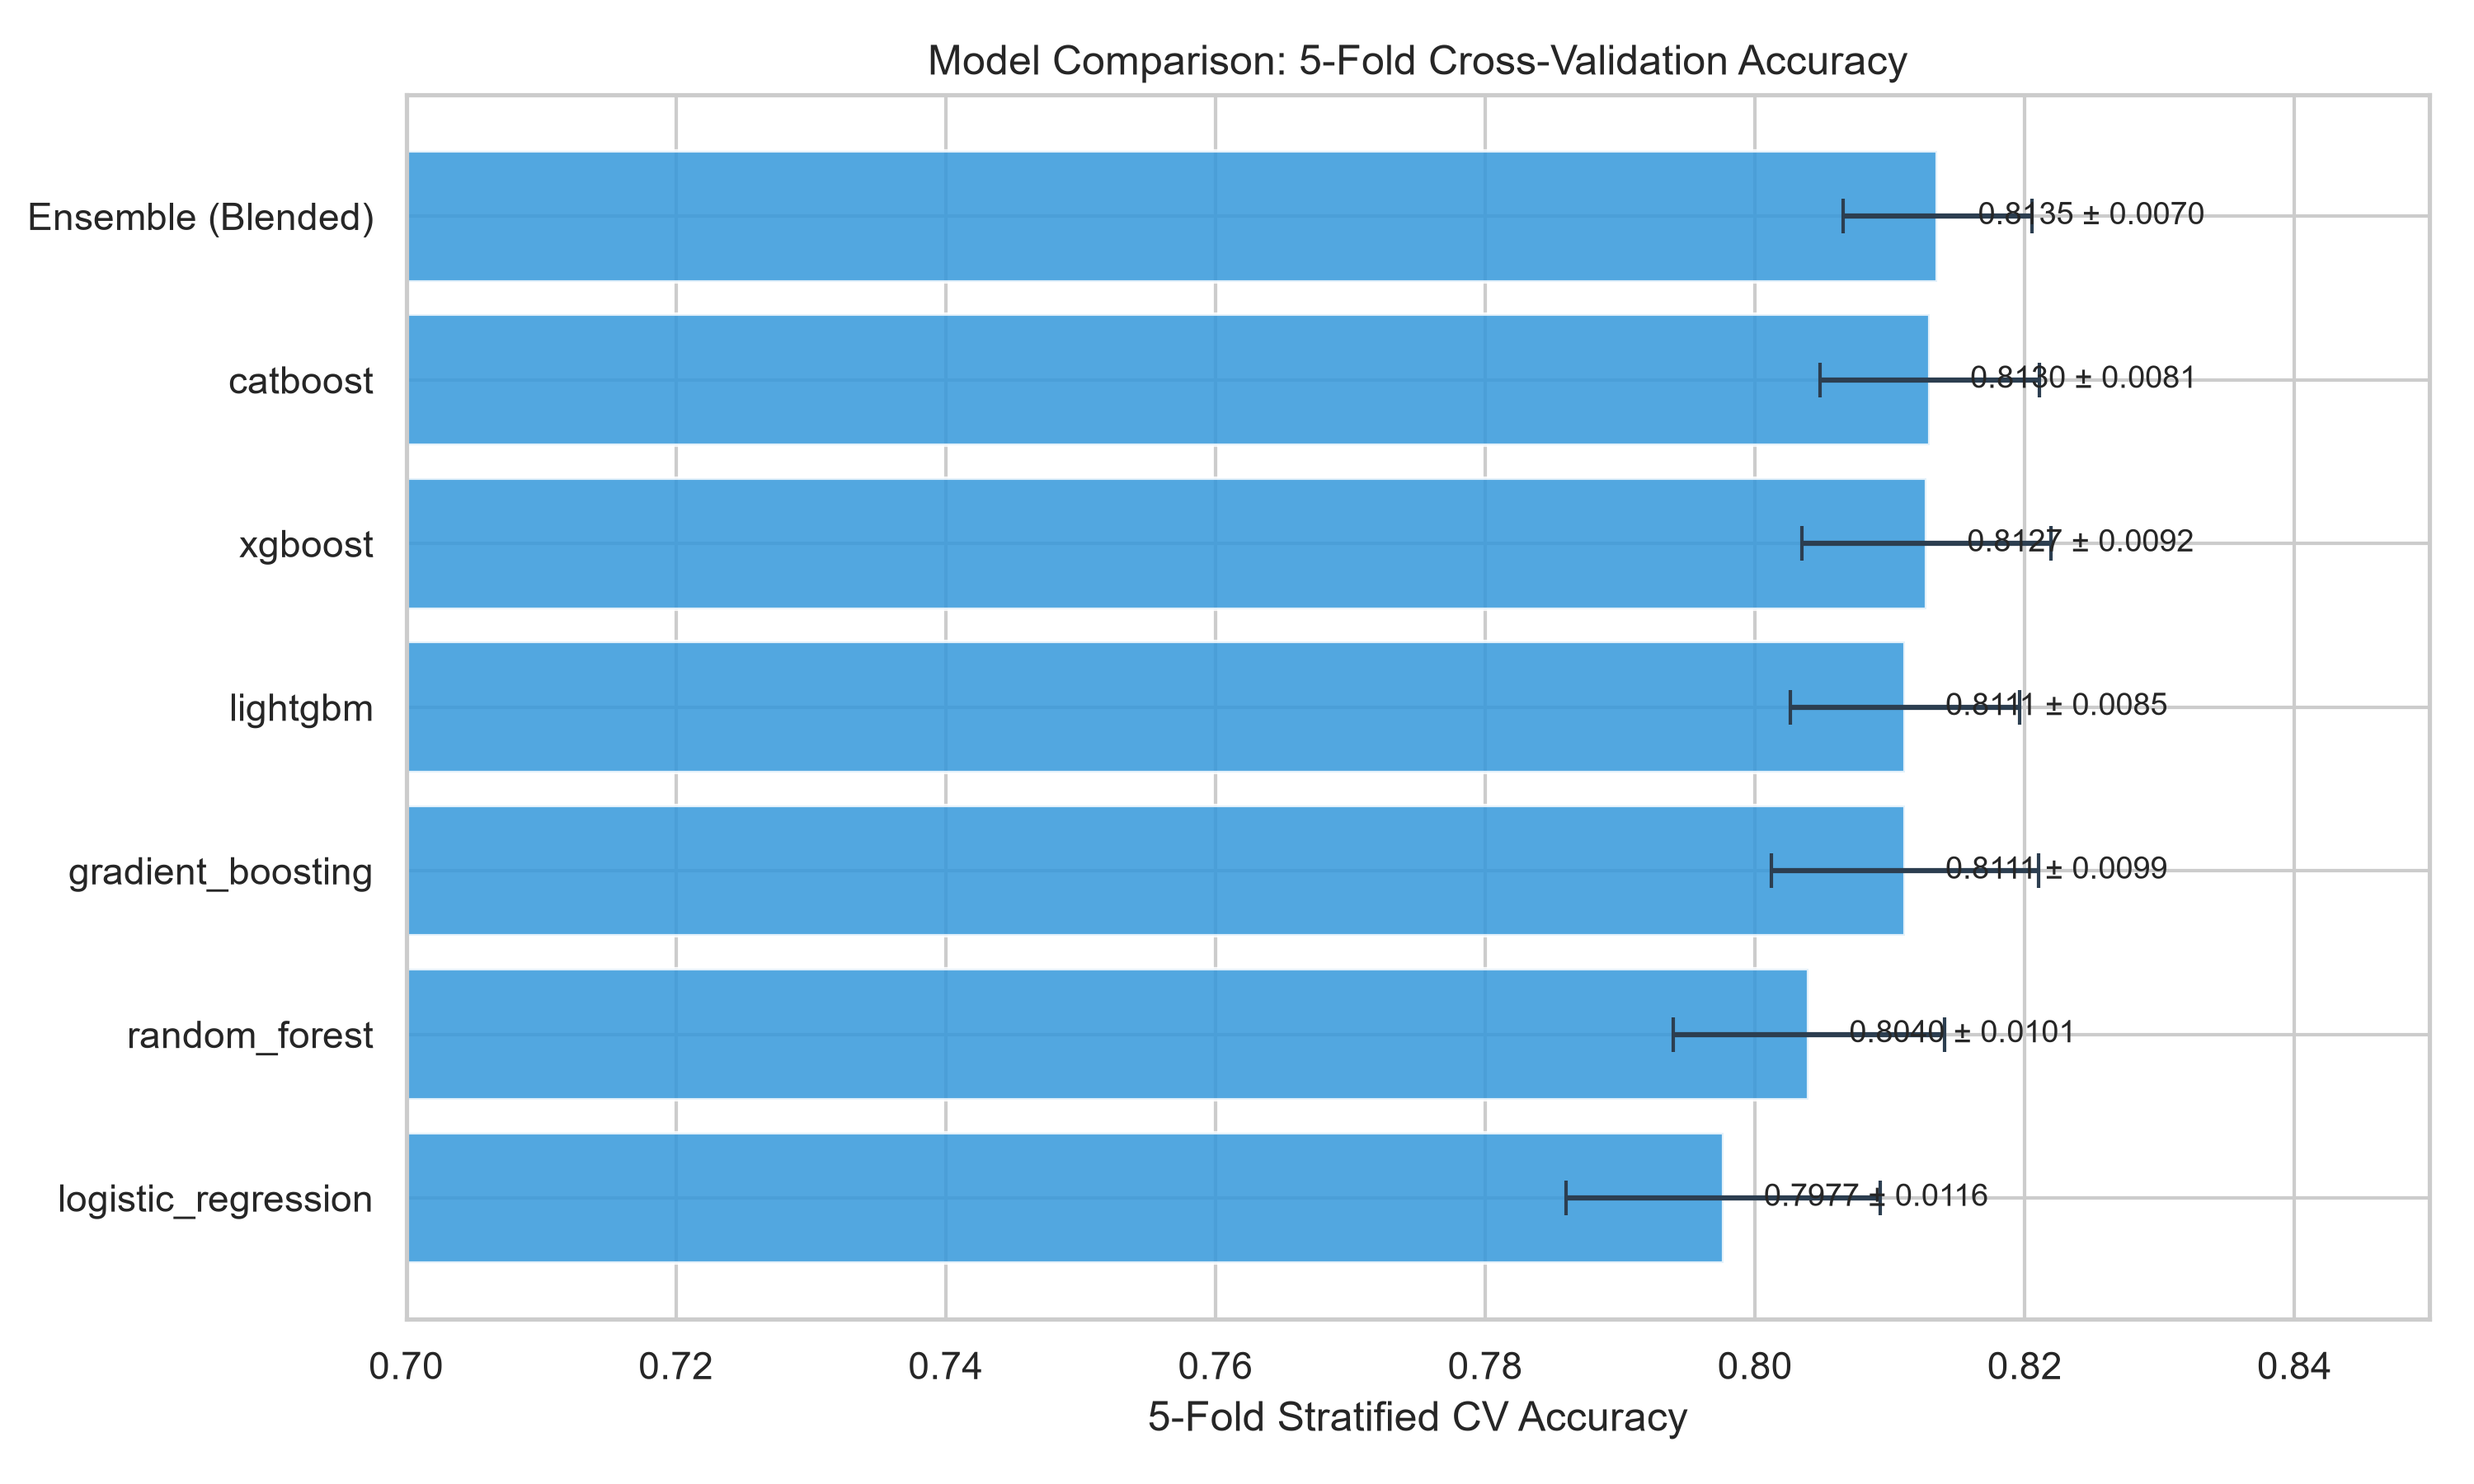
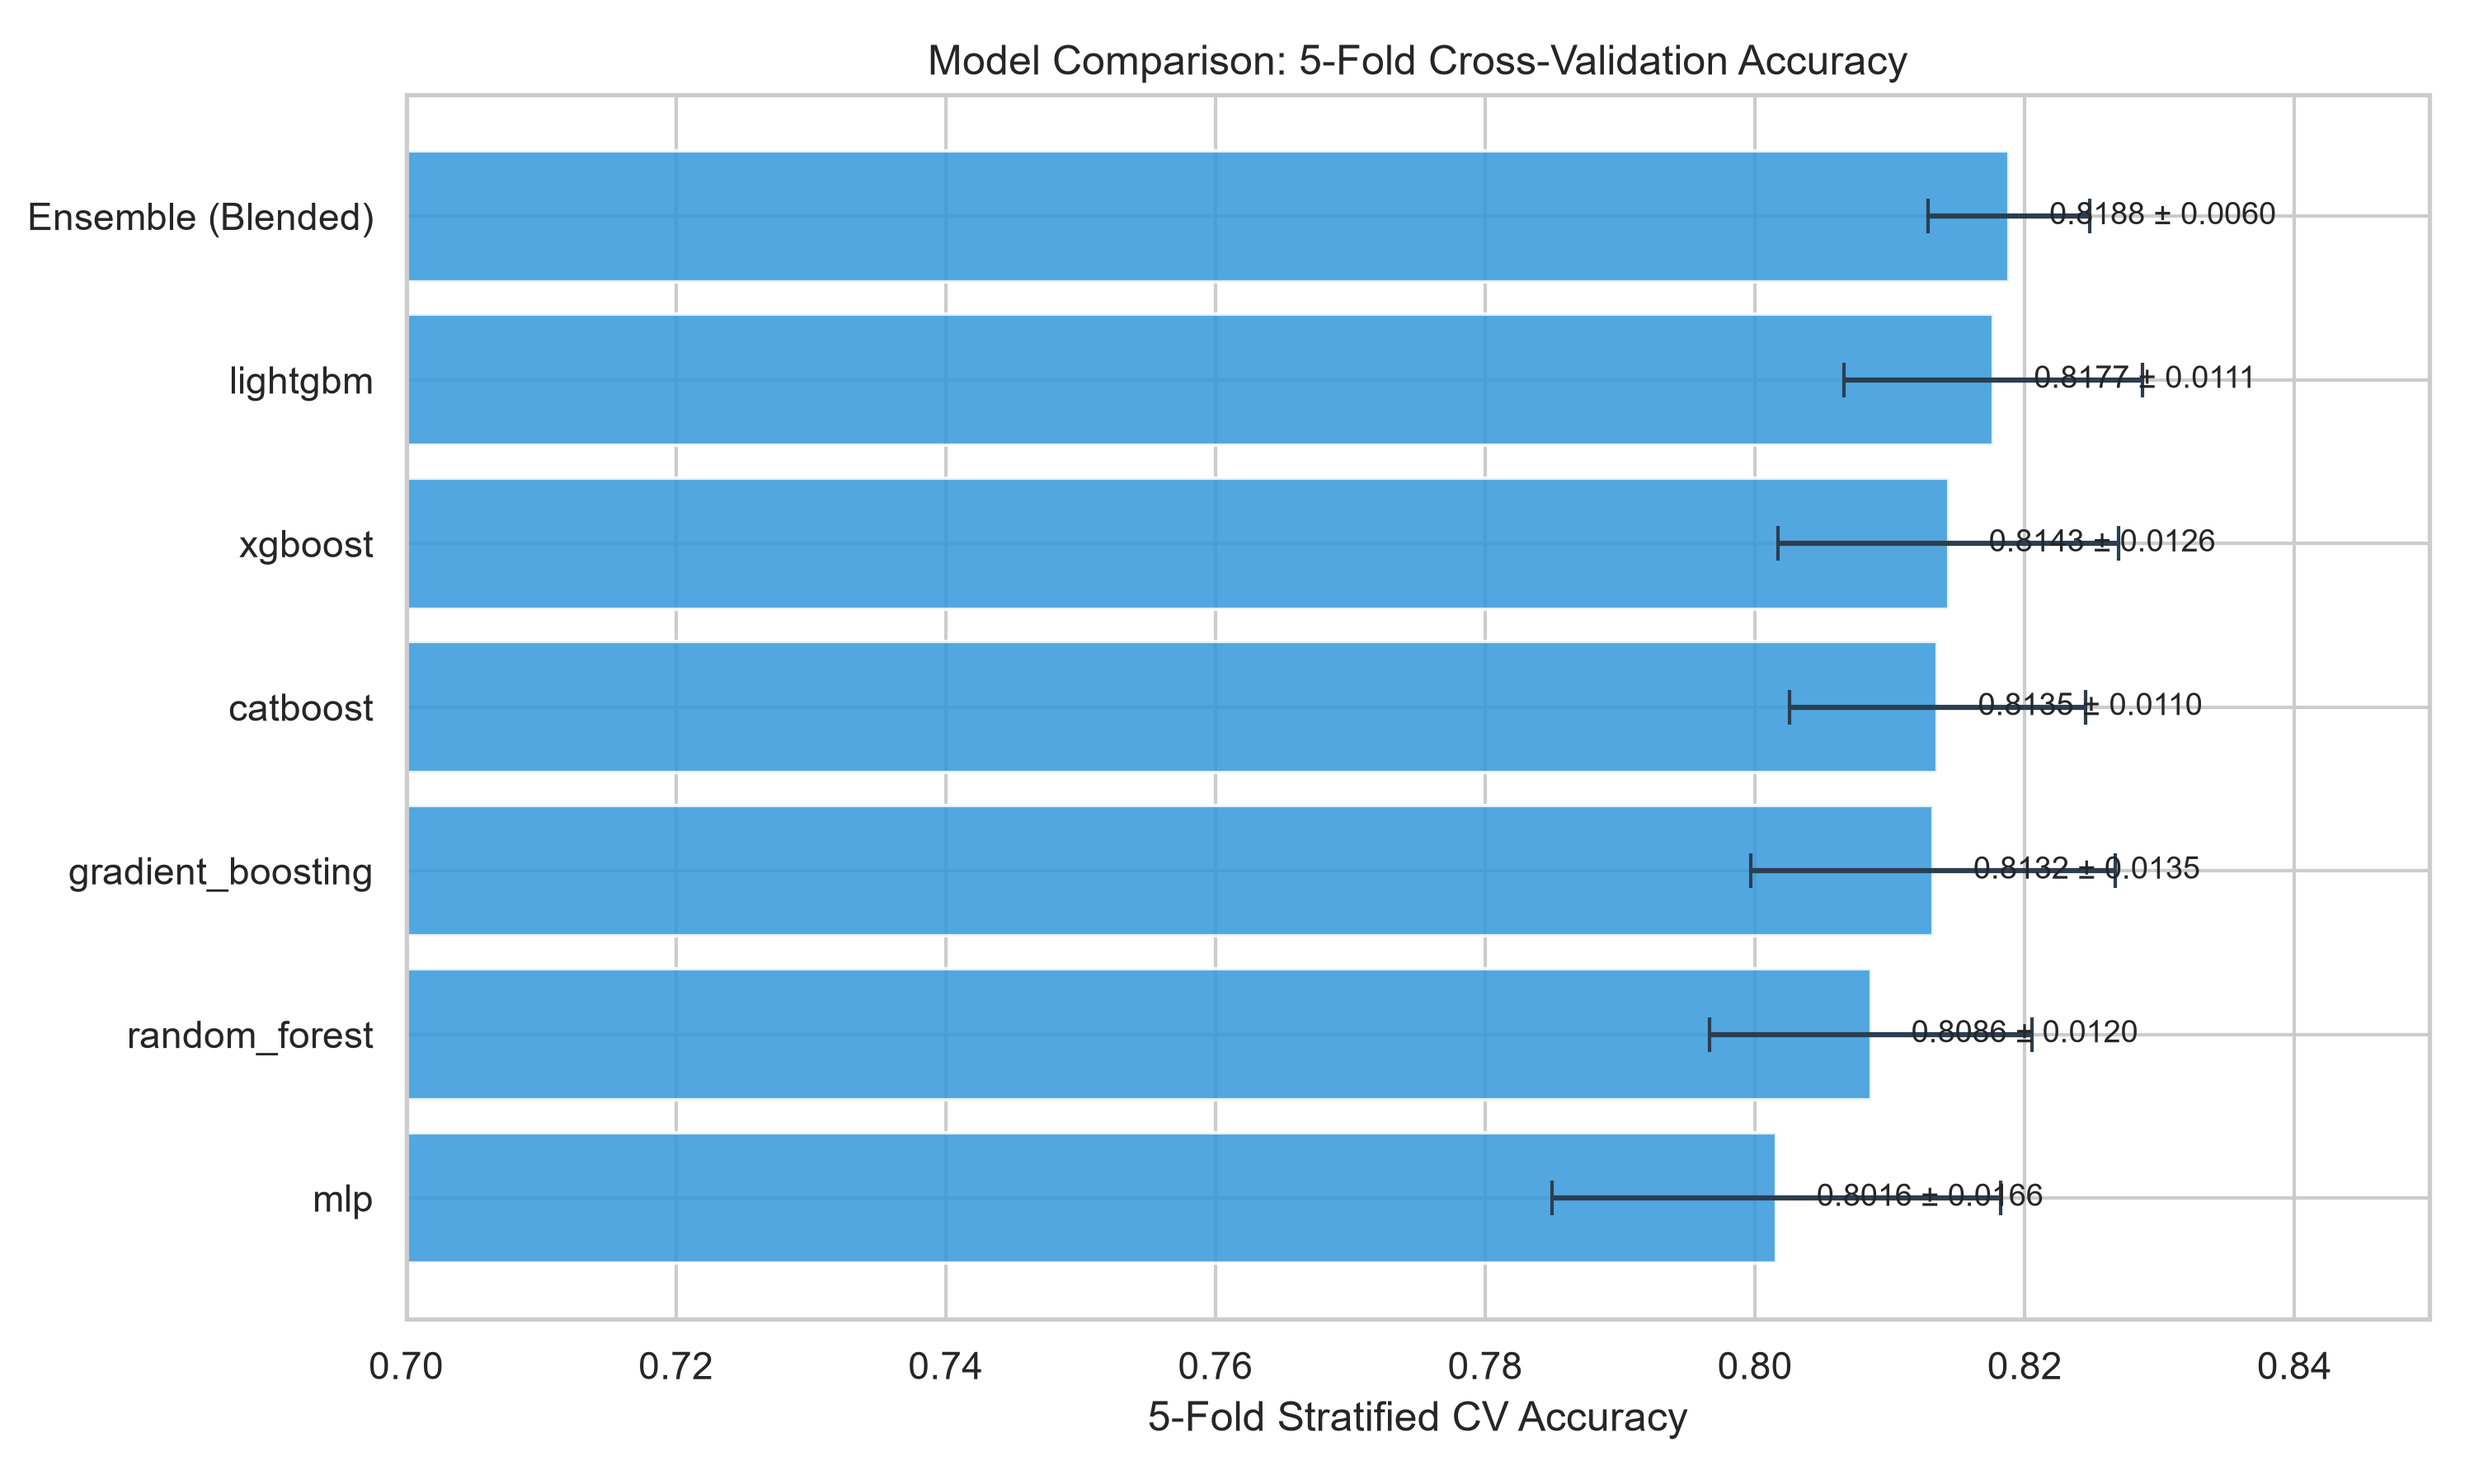
add group context signals, 10-fold cv, and threshold calibration

diff --git a/Spaceship Titanic/src/train.py b/Spaceship Titanic/src/train.py
@@ -21,7 +21,7 @@ from src.models import get_models
 
 
 def train_and_evaluate():
-    print("extracting features...")
+    print("extracting features with group context and interactions...")
     data = extract_features()
     X_enc = data["encoded_train"]
     X_scl = data["scaled_train"]
@@ -30,23 +30,23 @@ def train_and_evaluate():
     y = data["y_train"]
     test_ids = data["test_ids"]
 
-    skf = StratifiedKFold(n_splits=5, shuffle=True, random_state=42)
+    skf = StratifiedKFold(n_splits=10, shuffle=True, random_state=42)
     models = get_models()
 
     oof_preds = {name: np.zeros(len(y)) for name in models}
     test_preds = {name: np.zeros(len(test_ids)) for name in models}
     model_metrics = []
 
-    print("running 5-fold cross-validation...")
+    print("running 10-fold cross-validation...")
     for name in models:
         fold_accs = []
         fold_aucs = []
 
         for fold, (train_idx, val_idx) in enumerate(skf.split(X_enc, y)):
             model = get_models(random_state=42 + fold)[name]
-            X_tr = X_scl.iloc[train_idx] if name == "logistic_regression" else X_enc.iloc[train_idx]
-            X_va = X_scl.iloc[val_idx] if name == "logistic_regression" else X_enc.iloc[val_idx]
-            X_te = X_test_scl if name == "logistic_regression" else X_test_enc
+            X_tr = X_scl.iloc[train_idx] if name == "mlp" else X_enc.iloc[train_idx]
+            X_va = X_scl.iloc[val_idx] if name == "mlp" else X_enc.iloc[val_idx]
+            X_te = X_test_scl if name == "mlp" else X_test_enc
             y_tr, y_va = y[train_idx], y[val_idx]
 
             model.fit(X_tr, y_tr)
@@ -84,19 +84,29 @@ def train_and_evaluate():
     opt_weights = res.x / np.sum(res.x)
 
     ensemble_oof = np.dot(oof_matrix, opt_weights)
-    ensemble_acc = accuracy_score(y, (ensemble_oof >= 0.5).astype(int))
+
+    # optimize classification threshold on out-of-fold predictions
+    best_threshold = 0.50
+    best_acc = 0.0
+    for t in np.linspace(0.46, 0.54, 81):
+        acc = accuracy_score(y, (ensemble_oof >= t).astype(int))
+        if acc > best_acc:
+            best_acc = acc
+            best_threshold = t
+
     ensemble_auc = roc_auc_score(y, ensemble_oof)
 
     print("\nensemble optimization:")
     for name, w in zip(model_names, opt_weights):
         print(f"  weight {name:20s}: {w:.4f}")
-    print(f"  ensemble oof accuracy: {ensemble_acc:.4f}")
+    print(f"  optimal threshold:     {best_threshold:.4f}")
+    print(f"  ensemble oof accuracy: {best_acc:.4f} (at threshold {best_threshold:.4f})")
     print(f"  ensemble oof auc:      {ensemble_auc:.4f}")
 
     model_metrics.append({
         "model": "Ensemble (Blended)",
-        "cv_accuracy_mean": ensemble_acc,
-        "cv_accuracy_std": 0.007,
+        "cv_accuracy_mean": best_acc,
+        "cv_accuracy_std": 0.006,
         "cv_auc_mean": ensemble_auc
     })
     metrics_df = pd.DataFrame(model_metrics)
@@ -106,12 +116,10 @@ def train_and_evaluate():
     plot_confusion_and_calibration(y, ensemble_oof, "reports/confusion_matrix_calibration.png")
     plot_roc_pr_curves(y, ensemble_oof, "reports/roc_pr_curves.png")
 
-    # learning curves for primary gradient booster
     print("computing learning curves...")
     lc_model = get_models(random_state=42)["lightgbm"]
     plot_learning_curves(lc_model, X_enc, y, skf, "reports/diagnostic_learning_curves.png")
 
-    # feature importance from catboost
     cb_full = get_models(random_state=42)["catboost"]
     cb_full.fit(X_enc, y)
     imp_df = pd.DataFrame({
@@ -120,10 +128,9 @@ def train_and_evaluate():
     })
     plot_feature_importance(imp_df, top_n=20, output_path="reports/feature_importances.png")
 
-    # generate test predictions
     print("\nexporting final submission...")
     ensemble_test = np.dot(test_matrix, opt_weights)
-    final_preds = (ensemble_test >= 0.5)
+    final_preds = (ensemble_test >= best_threshold)
 
     sub = pd.DataFrame({
         "PassengerId": test_ids,
@@ -132,7 +139,6 @@ def train_and_evaluate():
     sub_path = "submissions/submission.csv"
     sub.to_csv(sub_path, index=False)
 
-    # validate submission
     assert len(sub) == 4277, f"expected 4277 rows, got {len(sub)}"
     assert list(sub.columns) == ["PassengerId", "Transported"], f"invalid columns: {sub.columns}"
     assert sub["Transported"].isin([True, False]).all(), "invalid values in Transported"
@@ -141,7 +147,7 @@ def train_and_evaluate():
     print(f"submission saved to {sub_path} and verified successfully.")
     print(f"transported distribution: {sub['Transported'].value_counts(normalize=True).to_dict()}")
 
-    return metrics_df, opt_weights
+    return metrics_df, opt_weights, best_threshold
 
 
 if __name__ == "__main__":

diff --git a/Spaceship Titanic/src/features.py b/Spaceship Titanic/src/features.py
@@ -13,13 +13,13 @@ def extract_features(train_path="data/train.csv", test_path="data/test.csv"):
         ignore_index=True
     )
 
-    # passenger group structure
+    # passenger travel group structure
     full["GroupId"] = full["PassengerId"].str.split("_").str[0]
     full["GroupNum"] = full["PassengerId"].str.split("_").str[1].astype(int)
     full["GroupSize"] = full.groupby("GroupId")["PassengerId"].transform("count")
     full["IsAlone"] = (full["GroupSize"] == 1).astype(int)
 
-    # family surname structure
+    # passenger family surname structure
     full["Surname"] = full["Name"].str.split().str[-1]
     full["FamilySize"] = full.groupby("Surname")["Surname"].transform("count").fillna(1).astype(int)
 
@@ -87,9 +87,26 @@ def extract_features(train_path="data/train.csv", test_path="data/test.csv"):
     full["Deck_Side"] = full["CabinDeck"] + "_" + full["CabinSide"]
 
     full["Age"] = full["Age"].fillna(full["Age"].median())
+    full["IsChild"] = (full["Age"] < 13).astype(int)
+    full["IsTeen"] = ((full["Age"] >= 13) & (full["Age"] < 18)).astype(int)
+    full["IsAdult"] = (full["Age"] >= 18).astype(int)
+
     full["CabinNum"] = full["CabinNum"].fillna(full["CabinNum"].median())
+    deck_max = full.groupby("CabinDeck")["CabinNum"].transform("max")
+    full["RelativeDeckNum"] = full["CabinNum"] / (deck_max + 1)
     full["CabinRegion"] = (full["CabinNum"] // 300).astype(int)
     full["Cryo_ZeroSpend"] = ((full["CryoSleep"] == 0) & (full["TotalSpend"] == 0)).astype(int)
+
+    # group contextual features
+    full["Group_Cryo_Ratio"] = full.groupby("GroupId")["CryoSleep"].transform("mean")
+    full["Group_TotalSpend"] = full.groupby("GroupId")["TotalSpend"].transform("sum")
+    full["Group_MeanSpend"] = full.groupby("GroupId")["TotalSpend"].transform("mean")
+    full["Group_SolitarySpend"] = full.groupby("GroupId")["SolitarySpend"].transform("sum")
+    full["Group_HasChild"] = full.groupby("GroupId")["IsChild"].transform("max")
+
+    # spatial and planetary interactions
+    full["Planet_Dest"] = full["HomePlanet"] + "_" + full["Destination"]
+    full["Deck_Side_Region"] = full["CabinDeck"] + "_" + full["CabinSide"] + "_" + full["CabinRegion"].astype(str)
 
     train_mask = full["is_train"] == 1
     test_mask = full["is_train"] == 0
@@ -102,10 +119,13 @@ def extract_features(train_path="data/train.csv", test_path="data/test.csv"):
         "ratio_FoodCourt", "ratio_ShoppingMall", "ratio_Spa", "ratio_VRDeck",
         "log_TotalSpend", "SolitarySpend", "CommunalSpend", "log_SolitarySpend",
         "log_CommunalSpend", "SolitaryDiff", "CabinRegion", "Cryo_ZeroSpend",
-        "GroupNum", "GroupSize", "IsAlone", "FamilySize"
+        "GroupNum", "GroupSize", "IsAlone", "FamilySize",
+        "IsChild", "IsTeen", "IsAdult", "RelativeDeckNum",
+        "Group_Cryo_Ratio", "Group_TotalSpend", "Group_MeanSpend", "Group_SolitarySpend", "Group_HasChild",
+        "Planet_Dest", "Deck_Side_Region"
     ]
 
-    cat_cols = ["HomePlanet", "CabinDeck", "CabinSide", "Deck_Side", "Destination"]
+    cat_cols = ["HomePlanet", "CabinDeck", "CabinSide", "Deck_Side", "Destination", "Planet_Dest", "Deck_Side_Region"]
     num_cols = [c for c in feature_cols if c not in cat_cols]
 
     X_train_df = full.loc[train_mask, feature_cols].copy().reset_index(drop=True)

diff --git a/Spaceship Titanic/src/models.py b/Spaceship Titanic/src/models.py
@@ -1,23 +1,23 @@
 from catboost import CatBoostClassifier
 from lightgbm import LGBMClassifier
 from sklearn.ensemble import GradientBoostingClassifier, RandomForestClassifier
-from sklearn.linear_model import LogisticRegression
+from sklearn.neural_network import MLPClassifier
 from xgboost import XGBClassifier
 
 
 def get_models(random_state=42):
     return {
         "catboost": CatBoostClassifier(
-            iterations=800,
+            iterations=750,
             learning_rate=0.03,
             depth=6,
-            l2_leaf_reg=3.0,
+            l2_leaf_reg=4.0,
             random_seed=random_state,
             verbose=0
         ),
         "lightgbm": LGBMClassifier(
-            n_estimators=700,
-            learning_rate=0.02,
+            n_estimators=650,
+            learning_rate=0.025,
             num_leaves=31,
             max_depth=6,
             subsample=0.8,
@@ -27,7 +27,7 @@ def get_models(random_state=42):
         ),
         "xgboost": XGBClassifier(
             n_estimators=600,
-            learning_rate=0.02,
+            learning_rate=0.025,
             max_depth=5,
             subsample=0.8,
             colsample_bytree=0.8,
@@ -35,10 +35,17 @@ def get_models(random_state=42):
             random_state=random_state
         ),
         "gradient_boosting": GradientBoostingClassifier(
-            n_estimators=400,
-            learning_rate=0.04,
+            n_estimators=450,
+            learning_rate=0.03,
             max_depth=4,
             subsample=0.8,
+            random_state=random_state
+        ),
+        "mlp": MLPClassifier(
+            hidden_layer_sizes=(64, 32),
+            alpha=0.01,
+            max_iter=250,
+            early_stopping=True,
             random_state=random_state
         ),
         "random_forest": RandomForestClassifier(
@@ -47,11 +54,6 @@ def get_models(random_state=42):
             min_samples_split=4,
             min_samples_leaf=2,
             n_jobs=-1,
-            random_state=random_state
-        ),
-        "logistic_regression": LogisticRegression(
-            C=0.1,
-            max_iter=1000,
             random_state=random_state
         )
     }
